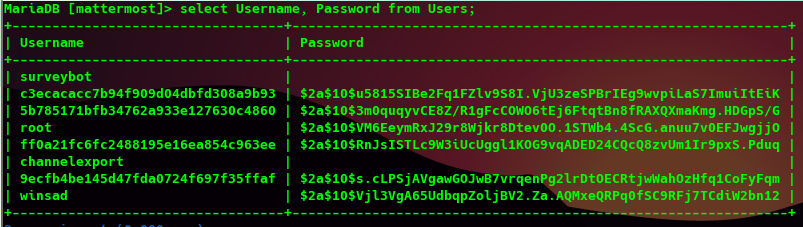
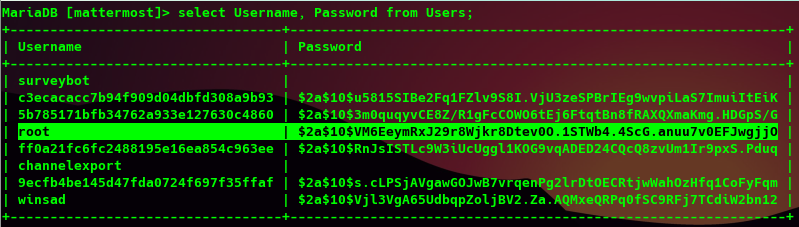
Update

diff --git a/_posts/2021-05-10-Writeup-Delivery.md b/_posts/2021-05-10-Writeup-Delivery.md
@@ -119,4 +119,10 @@ Para empezar, hice un escaneo con la herramienta **Nmap** para encontrar los pue
   <img src="https://raw.githubusercontent.com/Wiinsad/winsad/master/assets/images/machines/delivery/intrusion/mysql.png">
   </p>  
 
-  Ya dentro de la sesión interactiva usando el comando ***select Username, Password from Users;***  podemos ver las credenciales de la cuenta root cifradas
+  Ya dentro de la sesión interactiva usando el comando ***select Username, Password from Users;***  podemos ver las credenciales de la cuenta root cifradas:
+
+  <p align="center">
+  <img src="https://raw.githubusercontent.com/Wiinsad/winsad/master/assets/images/machines/delivery/intrusion/mysqlRoot.png">
+  </p>
+
+  Ahora que tengo la contraseña de root cifrada intente con john romperla y con el diccionario Rockyou pero no funciono, eso hace pensar en el mensaje que nos habia mensionado root cuando consguimos la cuenta donde vimos las llave de ssh que decia  ```PleaseSubscribe! may not be in RockYou but if any hacker manages to get our hashes, they can use hashcat rules to easily crack all variations of common words or phrases. ```
